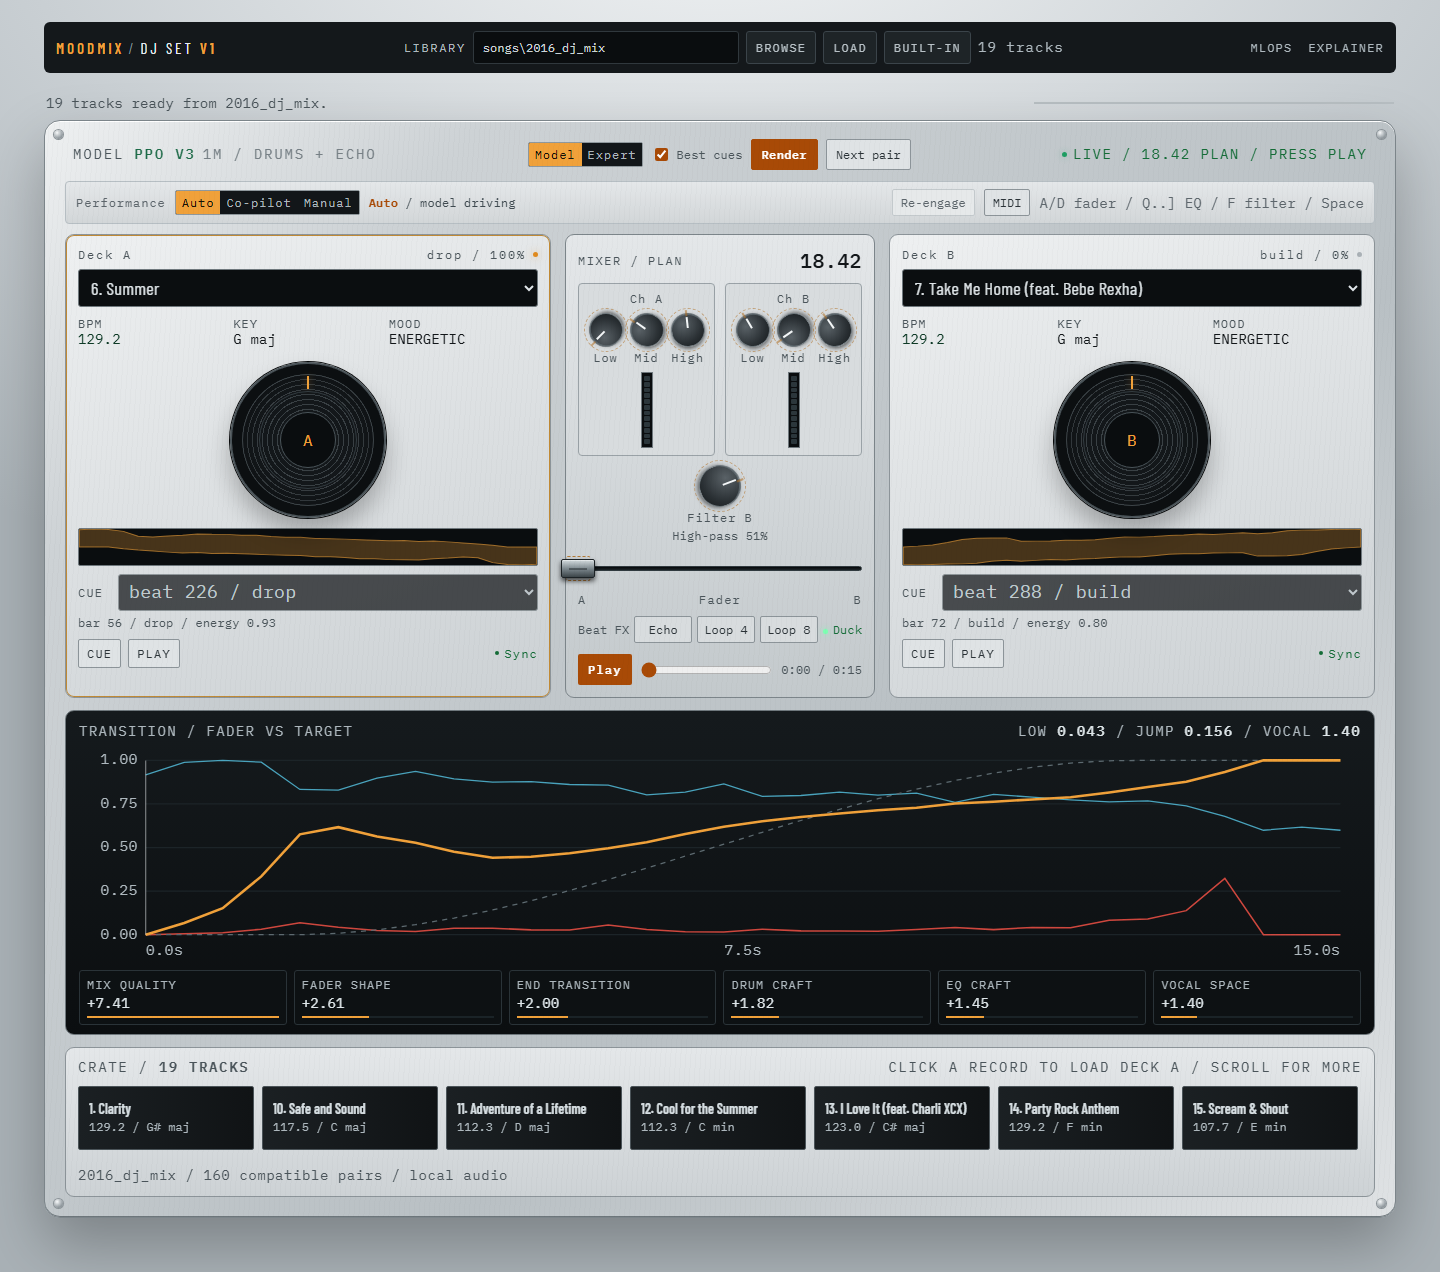
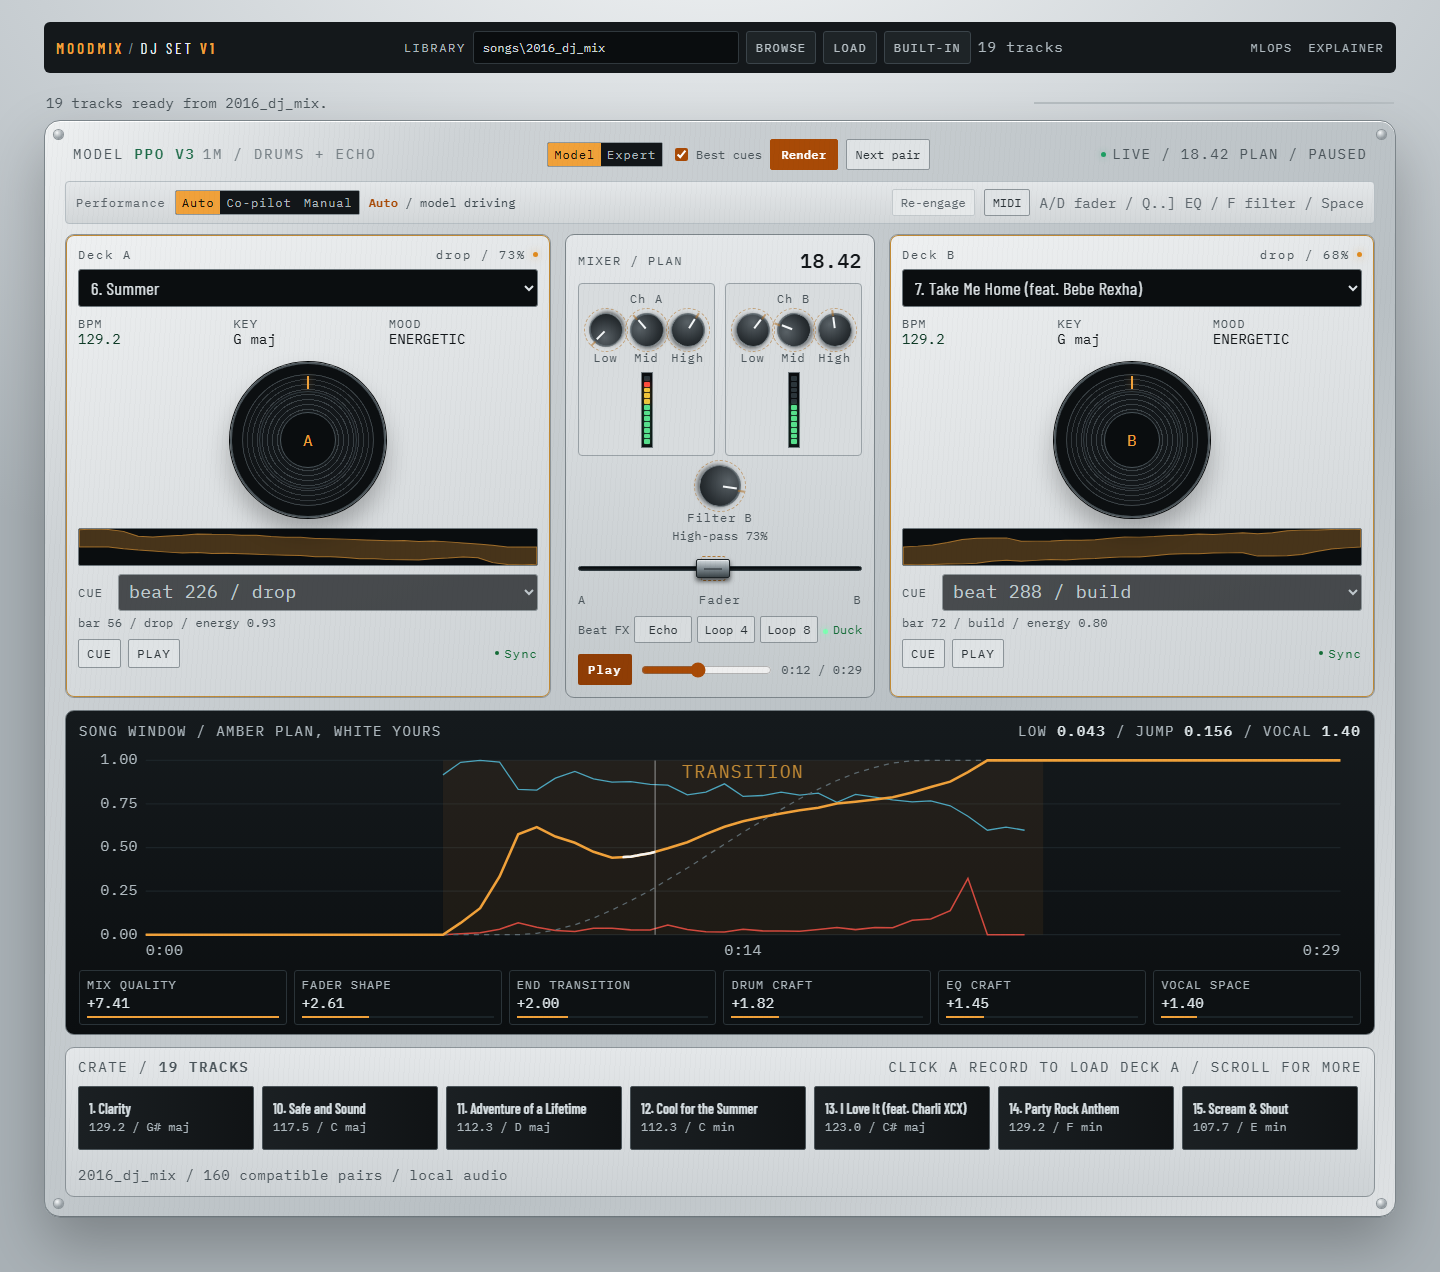
Add transition context window and browser folder picker
Four bars of deck A before and four bars of deck B after the 32-beat transition. Browse now uses the browser folder picker and uploads to a local cache before analysis. Docs and preview updated.

diff --git a/web_v1/index.html b/web_v1/index.html
@@ -438,6 +438,7 @@
       <button id="lib-browse">Browse</button>
       <button id="lib-load">Load</button>
       <button id="lib-builtin">Built-in</button>
+      <input type="file" id="folder-input" webkitdirectory multiple hidden>
       <span class="count" id="lib-count">loading</span>
     </div>
     <nav class="links">
@@ -579,7 +580,7 @@
     library: null, data: null, policy: "model", mode: "auto",
     raf: 0, byId: {}, maxA: 1, maxB: 1,
     live: false, ready: false, playing: false, offset: 0, full: false,
-    bGain: 1,
+    window: false, bGain: 1,
     ctx: null, buffers: null, graph: null, sources: null, startAt: 0,
     media: null, mediaSources: null,
     echoGate: { a: { active: false, start: 0 },
@@ -806,7 +807,7 @@
     const width = W - L - R, height = H - T - B;
     const y = v => T + (1 - v) * height;
     const x = t => L + (t / data.duration) * width;
-    const full = Boolean(data.full);
+    const full = Boolean(data.full || data.window);
     let inner = "";
     for (const value of [0, 0.25, 0.5, 0.75, 1]) {
       inner += `<line class="grid-line" x1="${L}" x2="${W - R}" y1="${y(value)}" y2="${y(value)}"></line>`;
@@ -846,7 +847,9 @@
       inner += `<line class="playhead" id="playhead" x1="${L}" x2="${L}" y1="${T}" y2="${H - B}"></line>`;
       $("#chart").innerHTML = inner;
       const title = $("#scope-title");
-      if (title) title.textContent = "Song timeline / amber plan, white yours";
+      if (title) title.textContent = data.window
+        ? "Song window / amber plan, white yours"
+        : "Song timeline / amber plan, white yours";
       return;
     }
     const maxLevel = Math.max(...data.steps.map(s => s.level), 1e-6);
@@ -908,22 +911,23 @@
     const now = Number.isFinite(t) ? Math.max(0, t) : 0;
     const firstStep = data.steps[0];
     const lastStep = data.steps[data.steps.length - 1];
-    const startAt = data.full ? (data.transition_start || 0) : 0;
-    const endAt = data.full ? (data.transition_end || startAt) : 0;
-    if (data.full && now < startAt) {
+    const windowed = Boolean(data.full || data.window);
+    const startAt = windowed ? (data.transition_start || 0) : 0;
+    const endAt = windowed ? (data.transition_end || startAt) : 0;
+    if (windowed && now < startAt) {
       return { fader: 0, eqA: [0.5, 0.5, 0.5], eqB: [0.5, 0.5, 0.5],
                filter: 0, drumA: firstStep.drum_a ?? 1,
                drumB: firstStep.drum_b ?? 1, echoA: 0, echoB: 0,
                step: firstStep, index: 0, phase: "before" };
     }
-    if (data.full && now >= endAt) {
+    if (windowed && now >= endAt) {
       return { fader: 1, eqA: [0.5, 0.5, 0.5], eqB: [0.5, 0.5, 0.5],
                filter: 0, drumA: lastStep.drum_a ?? 1,
                drumB: lastStep.drum_b ?? 1, echoA: 0, echoB: 0,
                step: lastStep, index: data.steps.length - 1,
                phase: "after" };
     }
-    const local = data.full ? now - startAt : now;
+    const local = windowed ? now - startAt : now;
     let index = 0;
     while (index + 1 < times.length && times[index + 1] <= local) index += 1;
     const first = data.steps[Math.min(index, data.steps.length - 1)];
@@ -1116,6 +1120,7 @@
     }
     state.mediaSources = null;
     state.full = false;
+    state.window = false;
     state.bGain = 1;
     resetEchoGate();
     if (state.graph) {
@@ -1392,6 +1397,7 @@
     const bDrums = hasStems ? makeMedia(data.deck_b_drums_url) : null;
     state.media = { a: mediaA, b: mediaB, aDrums, bDrums };
     state.full = true;
+    state.window = false;
     state.live = true;
     state.ready = false;
     state.playing = false;
@@ -1441,6 +1447,7 @@
       return;
     }
     state.bGain = 1;
+    state.window = Boolean(data.window);
     const ctx = ensureCtx();
     const fetchDeck = async (url, name) => {
       const response = await fetch(url);
@@ -1823,14 +1830,15 @@
     }
     const best = $("#best-cues").checked;
     const body = { track_a: a, track_b: b, policy: state.policy,
-                   best_cues: best, seed: 0, live: true, full: false };
+                   best_cues: best, seed: 0, live: true, full: false,
+                   context_beats: 16 };
     if (!best) {
       body.cue_a = Number($("#cue-a").value);
       body.cue_b = Number($("#cue-b").value);
     }
     $("#render").disabled = true;
     $("#play").disabled = true;
-    setStatus("Rendering / preparing full songs and the transition", "");
+    setStatus("Rendering / preparing the transition window", "");
     try {
       const response = await fetch("/api/render", {
         method: "POST",
@@ -1956,20 +1964,40 @@
     setLibStatus(`${library.tracks.length} tracks ready from ${library.label}.`, "");
   }
 
-  async function browseFolder() {
-    setLibStatus("Waiting for the folder picker...");
+  function browseFolder() {
+    const input = $("#folder-input");
+    input.value = "";
+    input.click();
+  }
+
+  async function uploadFolder(fileList) {
+    const files = Array.from(fileList).filter(file =>
+      /\.(mp3|wav|flac|ogg|m4a|aiff|aif)$/i.test(file.name));
+    if (!files.length) {
+      setLibStatus("No audio files in that folder", "err");
+      return;
+    }
+    const data = new FormData();
+    for (const file of files) {
+      data.append("files", file, file.webkitRelativePath || file.name);
+    }
+    const folderName = files[0].webkitRelativePath
+      ? files[0].webkitRelativePath.split("/")[0] : "folder";
+    data.append("folder_name", folderName);
+    setLibStatus(`Uploading ${files.length} files...`, "");
+    setStatus("Uploading library", "");
+    setProgress(0.02);
     try {
-      const result = await fetch("/api/browse", { method: "POST" }).then(response => response.json());
-      if (result.path) {
-        $("#lib-path").value = result.path;
-        setLibStatus("Folder selected. Click Load.");
-      } else if (result.error) {
-        setLibStatus("Picker: " + result.error, "err");
-      } else {
-        setLibStatus("No folder selected.");
-      }
+      const response = await fetch("/api/upload", { method: "POST", body: data });
+      const info = await response.json();
+      if (!response.ok) throw new Error(info.error || `HTTP ${response.status}`);
+      $("#lib-path").value = info.path;
+      await scanLibrary({ path: info.path }, `Analyzing ${info.label}...`);
     } catch (error) {
-      setLibStatus("Picker failed: " + error.message, "err");
+      setLibStatus("Folder upload failed: " + error.message, "err");
+      setStatus("Library failed", "err");
+    } finally {
+      $("#folder-input").value = "";
     }
   }
 
@@ -1995,6 +2023,8 @@
     $("#lib-builtin").addEventListener("click", () =>
       scanLibrary({ preset: "crate" }, "Loading the built-in 20-song crate..."));
     $("#lib-browse").addEventListener("click", browseFolder);
+    $("#folder-input").addEventListener("change", event =>
+      uploadFolder(event.target.files));
     $("#lib-path").addEventListener("keydown", event => {
       if (event.key === "Enter") $("#lib-load").click();
     });

diff --git a/src/moodmix_env/webapp_v1.py b/src/moodmix_env/webapp_v1.py
@@ -5,6 +5,7 @@ from __future__ import annotations
 import hashlib
 import html
 import json
+import shutil
 import subprocess
 import sys
 import threading
@@ -17,6 +18,7 @@ import librosa
 import numpy as np
 import soundfile as sf
 from flask import Flask, jsonify, redirect, request, send_from_directory
+from werkzeug.utils import secure_filename
 
 from .env_v1 import MoodMixV1Env, key_distance
 from .env_v3 import MoodMixV3Env
@@ -543,6 +545,44 @@ a{{color:#a84a06}}
         return jsonify({"path": lines[-1] if lines else None,
                         "error": result.stderr.strip() or None})
 
+    @app.post("/api/upload")
+    def upload_folder():
+        files = request.files.getlist("files")
+        if not files:
+            return jsonify({"error": "no files in the upload"}), 400
+        folder_name = secure_filename(
+            str(request.form.get("folder_name", "upload"))) or "upload"
+        target = runs_dir / "uploads" / (
+            f"{folder_name}_{uuid.uuid4().hex[:8]}")
+        target.mkdir(parents=True, exist_ok=True)
+        saved = 0
+        skipped = 0
+        for storage in files:
+            name = Path(storage.filename or "").name
+            filename = secure_filename(name)
+            if (not filename
+                    or Path(filename).suffix.lower() not in AUDIO_EXTS):
+                skipped += 1
+                continue
+            destination = target / filename
+            if destination.exists():
+                destination = target / (
+                    f"{destination.stem}_{uuid.uuid4().hex[:4]}"
+                    f"{destination.suffix}")
+            storage.save(destination)
+            saved += 1
+        if not saved:
+            shutil.rmtree(target, ignore_errors=True)
+            return jsonify({
+                "error": "no mp3/wav/flac/ogg/m4a/aiff files in that folder"
+            }), 400
+        return jsonify({
+            "path": str(target),
+            "label": folder_name,
+            "saved": saved,
+            "skipped": skipped,
+        })
+
     @app.post("/api/render")
     def render_endpoint():
         snapshot = _snapshot()
@@ -566,6 +606,11 @@ a{{color:#a84a06}}
         use_best = bool(payload.get("best_cues", True))
         live = bool(payload.get("live"))
         full = bool(payload.get("full"))
+        try:
+            context_beats = int(payload.get("context_beats", 0) or 0)
+        except (TypeError, ValueError):
+            context_beats = 0
+        context_beats = max(0, min(32, context_beats))
         cue_a = payload.get("cue_a")
         cue_b = payload.get("cue_b")
         cue_a = int(cue_a) if cue_a is not None else None
@@ -654,6 +699,7 @@ a{{color:#a84a06}}
             "deck_b_url": None,
             "live": live,
             "full": False,
+            "window": False,
         }
 
         if live and full:
@@ -751,14 +797,35 @@ a{{color:#a84a06}}
         deck_a_path = runs_dir / deck_a_name
         deck_b_path = runs_dir / deck_b_name
         if live:
+            pre = min(context_beats, env.cue_a)
+            post = context_beats
+            if pre or post:
+                suffix = f"__w{pre}_{post}"
+                deck_a_name = f"{stem}{suffix}__deck_a.wav"
+                deck_b_name = f"{stem}{suffix}__deck_b.wav"
+                deck_a_path = runs_dir / deck_a_name
+                deck_b_path = runs_dir / deck_b_name
             if not deck_a_path.exists() or not deck_b_path.exists():
-                deck_a, deck_b = prepare_decks(env)
+                deck_a, deck_b = prepare_decks(
+                    env, pre_beats=pre, post_beats=post)
                 write_wav(deck_a, 44100, deck_a_path)
                 write_wav(deck_b, 44100, deck_b_path)
             result.update({
                 "deck_a_url": f"/audio/{deck_a_name}",
                 "deck_b_url": f"/audio/{deck_b_name}",
             })
+            if pre or post:
+                ta = np.asarray(env.track_a["beat_times"], dtype=np.float64)
+                beat_a = float(np.median(np.diff(ta)))
+                transition_start = pre * beat_a
+                transition_end = transition_start + float(
+                    ta[env.cue_a + env.step_count] - ta[env.cue_a])
+                result.update({
+                    "window": True,
+                    "transition_start": transition_start,
+                    "transition_end": transition_end,
+                    "duration": transition_end + post * beat_a,
+                })
             return jsonify(result)
 
         if not audio_path.exists():

diff --git a/src/moodmix_env/render_v2.py b/src/moodmix_env/render_v2.py
@@ -209,7 +209,8 @@ def _filter_curves(filter_action: np.ndarray, sr: int) -> tuple[np.ndarray,
 
 
 def prepare_decks(env, sr: int = 44100,
-                  peak: float = 0.80) -> tuple[np.ndarray, np.ndarray]:
+                  peak: float = 0.80, pre_beats: int = 0,
+                  post_beats: int = 0) -> tuple[np.ndarray, np.ndarray]:
     """Return two dry, beat-aligned, loudness-matched decks for live mixing.
 
     The decks contain the same time stretch, beat warp and vocal ducking as
@@ -301,6 +302,49 @@ def prepare_decks(env, sr: int = 44100,
     for deck in (a_dry, b_dry):
         deck[:fade] *= ramp
         deck[-fade:] *= ramp[::-1]
+
+    pre_beats = max(0, min(int(pre_beats), cue_a))
+    post_beats = max(0, int(post_beats))
+    if pre_beats or post_beats:
+        pre = _slice(audio_a, sr, float(ta[cue_a - pre_beats]),
+                     pre_beats * beat_a) if pre_beats else np.zeros(
+                         (0, 2), dtype=np.float32)
+        post = _slice(audio_a, sr, float(ta[end_index]),
+                      post_beats * beat_a) if post_beats else np.zeros(
+                          (0, 2), dtype=np.float32)
+        pre_b = np.zeros_like(pre)
+        if post_beats:
+            post_b = _slice(
+                audio_b, sr,
+                float(tb[min(cue_b + n_steps, len(tb) - 1)]),
+                post_beats * beat_a * rate)
+            post_b = _time_stretch(post_b, rate)
+            post_b = _fit_length(post_b, len(post))
+            env_a_post = _smooth(_rms_envelope(post, sr), 24)
+            env_b_post = _smooth(_rms_envelope(post_b, sr), 24)
+            if len(env_a_post) and len(env_b_post):
+                match_post = np.clip(
+                    env_a_post / (env_b_post + 1e-6), 0.5, 2.0)
+                match_post = _smooth(match_post, 32)
+                match_t_post = np.linspace(
+                    0.0, len(post) / sr, len(match_post))
+                post_b = post_b * np.interp(
+                    np.arange(len(post_b)) / sr,
+                    match_t_post, match_post)[:, None].astype(np.float32)
+        else:
+            post_b = np.zeros_like(post)
+        a_dry = np.concatenate([pre, a_dry, post], axis=0)
+        b_dry = np.concatenate([pre_b, b_dry, post_b], axis=0)
+        loudest = max(float(np.max(np.abs(a_dry))),
+                      float(np.max(np.abs(b_dry))), 1e-9)
+        scale = peak / loudest
+        a_dry = (a_dry * scale).astype(np.float32)
+        b_dry = (b_dry * scale).astype(np.float32)
+        fade = min(len(a_dry) // 2, max(1, int(0.010 * sr)))
+        ramp = np.linspace(0.0, 1.0, fade, dtype=np.float32)[:, None]
+        for deck in (a_dry, b_dry):
+            deck[:fade] *= ramp
+            deck[-fade:] *= ramp[::-1]
     return a_dry, b_dry
 
 

diff --git a/README.md b/README.md
@@ -457,9 +457,10 @@ Why v1 sounds different:
   renderer ducks the mid/high bands automatically when two leads meet;
 - the local player is a **hardware-style booth**: silver console, jog wheels,
   LCD track displays, channel meters, a filter knob, a crossfader and a built-in
-  scope. The **Library bar** takes a folder path or the Browse picker, then Load
-  folder. Each song is analysed once and the manifest is cached under
-  `runs/v1/library_cache`, so the user's music folder is never written to.
+  scope. The **Library bar** takes a server path or the Browse folder picker,
+  which uploads the selected folder to `runs/v1/web/uploads` and analyses it.
+  Each song is analysed once and the manifest is cached under
+  `runs/v1/library_cache`, so the user's original folder is never written to.
 
 The reward pays for bass-swap exclusivity, EQ separation, filter direction,
 phrase timing, level/spectral continuity, vocal space and a weak fader arc; it
@@ -501,8 +502,9 @@ python scripts/serve_v1.py --port 8050
 
 The 1M fine-tune from a high-score v3 checkpoint reached eval **+17.84**,
 low-band overlap **0.065** and mean level jump **0.192**. The booth runs the
-32-beat transition with the v3 model. The full-song stem renderer remains in
-the codebase but is not the default; the player is back to the transition clip.
+32-beat transition with the v3 model, plus four bars of deck A before and four
+bars of deck B after. The full-song stem renderer remains in the codebase but is
+not the default.
 
 ## DJSet-v4: stem remix experiment
 
